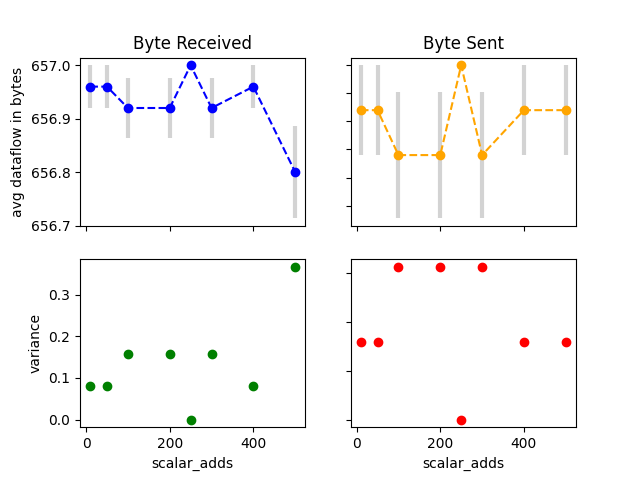
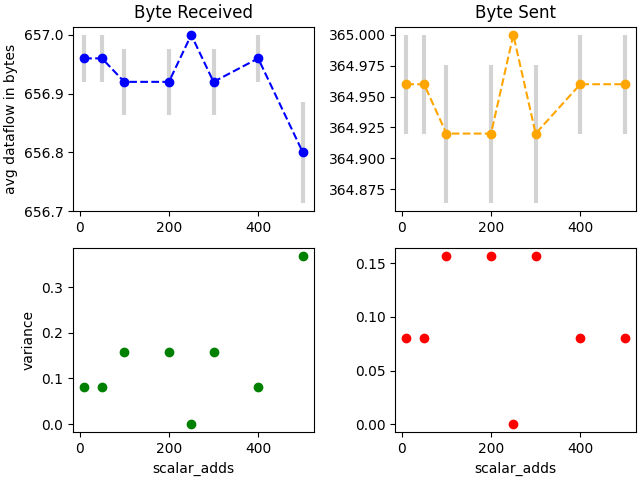
Completed all but application part of the report

diff --git a/project1/report_template/main.tex b/project1/report_template/main.tex
@@ -8,6 +8,7 @@
 \usepackage{algorithmic}
 \usepackage{cite}
 \usepackage[utf8]{inputenc}
+\usepackage{csquotes}
 
 
 \title{CS523 Project 1 Report}
@@ -25,98 +26,119 @@
 \end{abstract}
 
 \section{Introduction}
-Give a brief introduction about the project and its aims.
+Secure Multiparty Computation as described by \cite[Frikken]{Frikken2011} \enquote{allow for the distributed computation of a
+function over distributed inputs without revealing additional information about the inputs.}
+
+In this project we have implemented an instance of SMC using a Trusted Third party to share secret shares and final
+computation of functions.
 
 \section{Threat model}
-It is important to take into account the main goal of Secure Multiparty Computation is to a set of parties to
-interact and compute a joint function of their private inputs while revealing nothing but the
-output" \cite{yao}.
-Thus our focus here shall be to look at instances where information these private input can be learned by the
-adversary which is an information disclosure.
-\subsection{Application Structure}
-First we need to think about the structure of the application and how information about secret/shares flows through it.
+In SMC the main goal of the adversary is to gain knowledge of the inputs used by the system in the computation of
+the function.
 
-\begin{figure}[ht]
-    \centering
-    \includegraphics[width=0.5\linewidth]{threat_model.jpg}
-    \caption{Dataflow Diagram}
-    \label{fig:threat_model}
-\end{figure}
-\subsection{Attack surface}
-From the diagram shown in \ref{fig:threat_model} we can see that there are multiple regions where that can compromise
-the confidentiality of the Secret values.
-\subsubsection{Compromise on the server side}
-Since all shares of secrets are eventually held by the server.
-A direct control of the server by an adversary would compromise the confidentiality of all the secrets but could also
-compromise the integrity of the secrets and expresion itself.
-i.e The adversary could change the value of the secret
-shares and even the value of the final computed expression at will.
+This model protects against \textit{passive but curious} adversaries.
+In this model the adversary is only capable of passively listening to the information transitioning between a server and
+parties and cannot deviate from the protocol.
 
-\subsubsection{Compromise on the Party side}
-An adversary that gains control of a party before that said party split its secret into shares will be able
-to know the value of that party secrets.
-Outside of that stage unless the all parties are compromise it is impossible for the adversary to recover
-the value of all the secrets as each party can only access the shares that were destined to it.
+The adversary is only able to know the secrets of parties it controls, and the result of the function computed.
 
-\subsubsection{Compromise on the communication route between the parties and the server}
-We can see in the dataflow diagram that not all the shares corresponding to a secret are broadcast.
-Each party never sends its own share of the secret it owns.
-Thus an adversary with network access cannot reconstruct the secrets as they would be lacking one share.
-
+Depending on the type of function and number of parties the adversary could infer some information such as an
+upper or lower bound or even the exact values of other parties secret inputs.
 
 \section{Implementation details}
-
+The SMS protocol was implemented using a trusted third party that receives all, but the local secret shares of each party
+as well as the result of the computed function by each party.
 
 \section{Performance evaluation}
-\subsection{Effect on of the number of parties}
-This specific test was run on an expression containing 60 secrets in the form: $s_1 + s_2 + s+_3 \dots s_{30} * s_{31} *
-s_{32} * \dots*  s_{60}$
+All measurements were performed directly on each party and recorded.
+The bytes in and out where measured on every
+network call made by the party.
+The runtime was measured as the time elapsed between the start the run function in
+party\_smc.py and the time when that function returns.
+Every individual case in each condition was run a total of 10 times.
+Unless otherwise specified the number of parties involved in each test was 5.
+The standard error calculated as $\frac{\sigma}{\sqrt{n}}$ where n is the number of data entries for each case.
+However, in certain graphs that error was way too small relative to the scale to be visible.
+The hardware used to run the test was on an i7 UX433F Asus Zenbook.
+
+
+
 \begin{figure}[ht]
-    \includegraphics[width=0.49\linewidth]{../performance_analysis/dataflow_in_num_party_change.png}
-    \includegraphics[width=0.49\linewidth]{../performance_analysis/dataflow_out_num_party_change.png}
+    \includegraphics[width=0.49\linewidth]{../performance_analysis/dataflow_num_party_change.png}
     \includegraphics[width=0.49\linewidth]{../performance_analysis/runtime_num_party_change.png}
     \caption{Avg Runtime and Dataflow change based on the number of parties}
+    \label{fig:num_parties}
 \end{figure}
-Here
 
-\pagebreak
-\subsection{Effect of number of Secret Additions}
-Information to write
 
 \begin{figure}[ht]
     \centering
     \includegraphics[width=0.49\linewidth]{../performance_analysis/dataflow_secrets_additions.png}
     \includegraphics[width=0.49\linewidth]{../performance_analysis/runtime_secrets_additions.png}
     \caption{Avg Runtime and Dataflow change based on the number of Secret Addtions}
+    \label{fig:num_additions}
 \end{figure}
 
-\subsection{Effect of Number of Secret Multiplication}
-\begin{figure}[ht]
-    \includegraphics[width=0.49\linewidth]{../performance_analysis/dataflow_in_secrets_multiplications.png}
-    \includegraphics[width=0.49\linewidth]{../performance_analysis/dataflow_out_secrets_multiplications.png}
+\begin{figure}[h!]
+    \includegraphics[width=0.49\linewidth]{../performance_analysis/dataflow_secrets_multiplications.png}
     \includegraphics[width=0.49\linewidth]{../performance_analysis/runtime_secrets_multiplications.png}
     \caption{Avg Runtime and Dataflow change based on the number of Secret Multiplications}
+    \label{fig:num_multiplications}
 \end{figure}
 
-\subsection{Effect of Number of Scalar Addition}
-
-\begin{figure}[ht]
+\begin{figure}[h!]
     \centering
     \includegraphics[width=0.49\linewidth]{../performance_analysis/dataflow_scalar_additions.png}
     \includegraphics[width=0.49\linewidth]{../performance_analysis/runtime_scalar_additions.png}
     \caption{Avg Runtime and Dataflow change based on the number of Scalar Addtions}
+    \label{fig:scalar_add}
 \end{figure}
 
-\subsection{Effect of Number of Scalar Multiplication}
 
-\begin{figure}[ht]
+\begin{figure}[h!]
     \centering
     \includegraphics[width=0.49\linewidth]{../performance_analysis/dataflow_scalar_multiplications.png}
     \includegraphics[width=0.49\linewidth]{../performance_analysis/runtime_scalar_multiplications.png}
     \caption{Avg Runtime and Dataflow change based on the number of Scalar Multiplications}
+    \label{fig:scalar_mult}
 \end{figure}
 
 
+\subsection{Effect on of the number of parties \ref{fig:num_parties}}
+This specific test was run on an expression containing 60 secrets in the form: $s_1 + s_2 + s+_3 \dots s_{30} * s_{31} *
+s_{32} * \dots*  s_{60}$
+
+For, the dataflow we can see a linear increase for the number of bytes received, and a logarithmic increase for the
+number of bytes sent.
+The computational time seems to increase exponentially.
+The linear increase in bytes received is expected as every time the number of parties increase by two so does the number
+of $x-a$ and $y-b$ input required to perform the secret to secret multiplications since the number of these values to
+retrieve are dependent on the number of parties.
+
+The logarithmic increase in bytes sent can be explained by the ration between the number of shares to send vs the
+number of parties to send these shares to.
+As, the number of secret per party decreases the number of party to send the secret shares to increases counter balancing
+the decrease.
+
+
+\subsection{Effect of number of Secret Additions \ref{fig:num_additions}}
+
+For the dataflow we can see a linear increase in bytes sent and received.
+The runtime increases linearly as well.
+The variance itself although increasing as the number of addition increases does not go beyond 10.
+
+\subsection{Effect of Number of Secret Multiplication \ref{fig:num_multiplications}}
+Both for the dataflow and computation time show a linear increase.
+
+\subsection{Effect of Number of scalars \ref{fig:scalar_add}\ref{fig:scalar_mult}}
+For these we see no significant difference in the number of bytes sent and received
+which is explained by the fact that scalars are constants and shared across all parties, meaning that no network
+IO is required to perform the computation.
+The only slight differences shown by the variance and error bars are caused by the serialization of the data.
+
+When it comes to the runtime we can see a slight inconsistent increase.
+This is probably due to the fact that since these operations do not require any Network I/O there are more
+prone to the CPU computational noise.
 
 \section{Application}
 Detail the use case of SMC and a circuit for this use case. Discuss possible privacy leakage not

diff --git a/project1/performance_analysis/dataflow_analyzer.py b/project1/performance_analysis/dataflow_analyzer.py
@@ -41,38 +41,16 @@ for path, var in zip(paths, vars):
     m_out = np.append(m_out, mean_out)
     e_out = np.append(e_out, sem_out)
     v_out = np.append(v_out, var_out)
-
-    if path == 'num_party_change' or path == 'secrets_multiplications':
-        fig1,(ax1, ax3) = plt.subplots(2)
-        ax1.set(title='Bytes Received')
-        ax1.set(ylabel='avg dataflow in bytes')
-        ax1.errorbar(x, m_in, yerr=e_in, fmt='--o', color='blue', ecolor='lightgray', elinewidth=3)
-        ax3.set(xlabel=var, ylabel='variance')
-        ax3.plot(x, v_in, 'o', color='green')
-        for ax in fig1.get_axes():
-            ax.label_outer()
-        plt.savefig('dataflow_in_'+path+'.png')
-        fig2,(ax2, ax4) = plt.subplots(2)
-        ax2.set(title='Bytes Sent')
-        ax2.set(ylabel='avg dataflow in bytes')
-        ax2.errorbar(x, m_out, yerr=e_out, fmt='--o', color='orange', ecolor='lightgray', elinewidth=3)
-        ax4.set(xlabel=var)
-        ax4.set(xlabel=var, ylabel='variance')
-        ax4.plot(x, v_out, 'o', color='red')
-        for ax in fig2.get_axes():
-            ax.label_outer()
-        plt.savefig('dataflow_out_'+path+'.png')
-    else:
-        fig, ((ax1, ax2), (ax3, ax4)) = plt.subplots(2, 2)
-        ax1.set(ylabel='avg dataflow in bytes')
-        ax1.set(title='Byte Received')
-        ax1.errorbar(x, m_in, yerr=e_in, fmt='--o', color='blue', ecolor='lightgray', elinewidth=3)
-        ax2.errorbar(x, m_out, yerr=e_out, fmt='--o', color='orange', ecolor='lightgray', elinewidth=3)
-        ax2.set(title='Byte Sent')
-        ax3.set(xlabel=var, ylabel='variance')
-        ax3.plot(x, v_in, 'o', color='green')
-        ax4.set(xlabel=var)
-        ax4.plot(x, v_out, 'o', color='red')
-        for ax in fig.get_axes():
-            ax.label_outer()
-        plt.savefig('dataflow_' + path + '.png')
+    fig, ((ax1, ax2), (ax3, ax4)) = plt.subplots(2, 2, constrained_layout=True)
+    ax1.set(ylabel='avg dataflow in bytes')
+    ax1.set(title='Byte Received')
+    ax1.errorbar(x, m_in, yerr=e_in, fmt='--o', color='blue', ecolor='lightgray', elinewidth=3)
+    ax2.errorbar(x, m_out, yerr=e_out, fmt='--o', color='orange', ecolor='lightgray', elinewidth=3)
+    ax2.set(title='Byte Sent')
+    ax3.set(xlabel=var, ylabel='variance')
+    ax3.plot(x, v_in, 'o', color='green')
+    ax4.set(xlabel=var)
+    ax4.plot(x, v_out, 'o', color='red')
+    # for ax in fig.get_axes():
+    #     ax.label_outer()
+    plt.savefig('dataflow_' + path + '.png')

diff --git a/project1/RunPerfomance.py b/project1/RunPerfomance.py
@@ -205,9 +205,9 @@ def scalar_additions():
 
 def scalar_multiplications():
     num_parties = 5
-    num_additions = [10, 50, 100, 200, 250, 300, 400, 500]
+    num_multiplications = [10, 50, 100, 200, 250, 300, 400, 500]
     num_secret = 5
-    for num_multiplication in num_additions:
+    for num_multiplication in num_multiplications:
         for rep in range(0, REP):
             expr = None
             secrets = []
